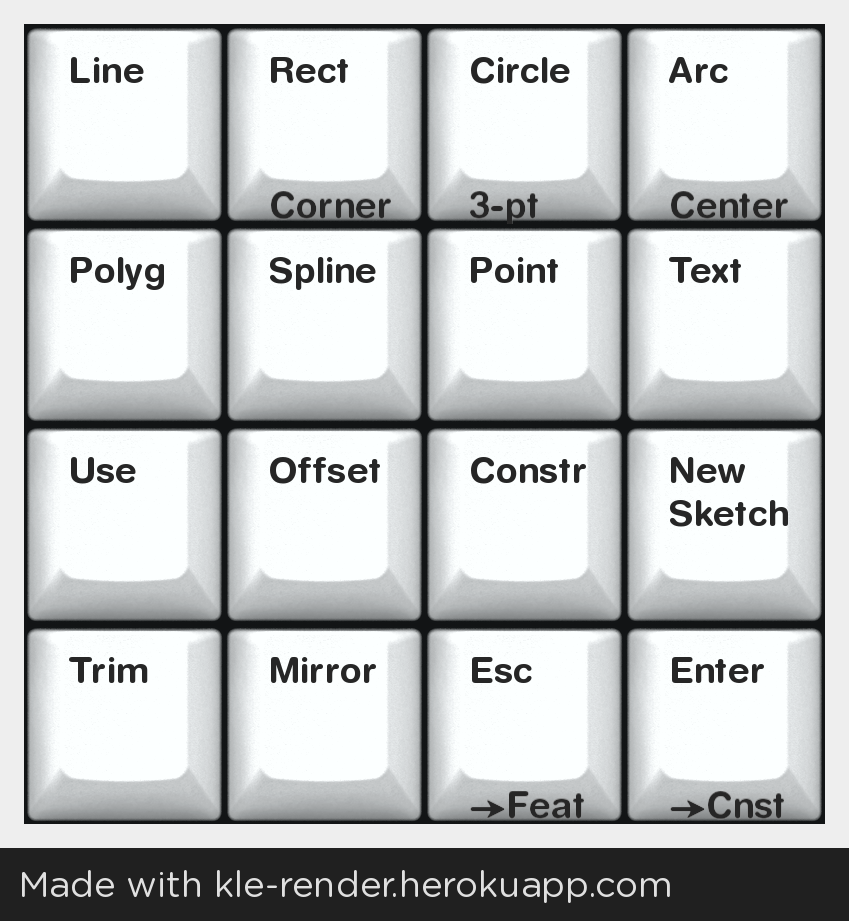
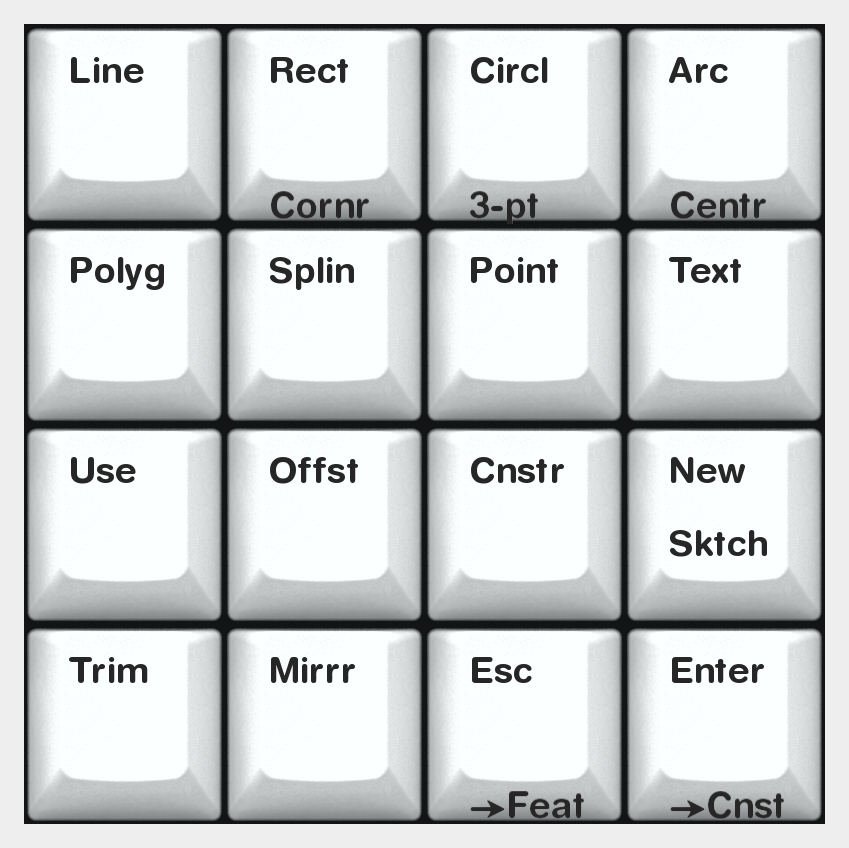
Enforce 5-char key labels, abbreviate layouts, crop KLE renders

diff --git a/misc/render_kle.py b/misc/render_kle.py
@@ -1,4 +1,11 @@
-#!/usr/bin/env python3
+#!/usr/bin/env -S uv run --script
+# /// script
+# requires-python = ">=3.8"
+# dependencies = [
+#   "Pillow",
+#   "requests"
+# ]
+# ///
 """
 Render KLE JSON layout files to PNG images.
 
@@ -6,11 +13,11 @@ When run without arguments, detects which layout files in config/layouts/
 changed in the previous commit and renders those. Also regenerates KEYMAPS.md.
 
 Usage:
-    python render_kle.py              # Render changed layouts, update KEYMAPS.md
-    python render_kle.py --all        # Render all layouts, update KEYMAPS.md
-    python render_kle.py <file.json>  # Render a single file (legacy mode)
+    ./render_kle.py              # Render changed layouts, update KEYMAPS.md
+    ./render_kle.py --all        # Render all layouts, update KEYMAPS.md
+    ./render_kle.py <file.json>  # Render a single file (legacy mode)
 """
-
+import io
 import json
 import re
 import subprocess
@@ -18,11 +25,16 @@ import sys
 from pathlib import Path
 
 import requests
+from PIL import Image
 
 REPO_ROOT = Path(__file__).parent.parent
 LAYOUTS_DIR = REPO_ROOT / "config" / "layouts"
 OUTPUT_DIR = REPO_ROOT / "misc" / "layouts"
 KEYMAPS_FILE = REPO_ROOT / "KEYMAPS.md"
+
+
+TARGET_WIDTH = 849
+TARGET_HEIGHT = 848
 
 
 def render_kle(input_path: Path, output_path: Path) -> Path:
@@ -36,8 +48,12 @@ def render_kle(input_path: Path, output_path: Path) -> Path:
         )
     response.raise_for_status()
 
+    # Crop the image to the target size, keeping the top portion.
+    image = Image.open(io.BytesIO(response.content))
+    cropped = image.crop((0, 0, TARGET_WIDTH, TARGET_HEIGHT))
+
     output_path.parent.mkdir(parents=True, exist_ok=True)
-    output_path.write_bytes(response.content)
+    cropped.save(output_path, "PNG")
     print(f"Rendered {input_path.name} -> {output_path}")
     return output_path
 
@@ -126,7 +142,9 @@ def generate_keymaps_md() -> None:
         if info["png_exists"]:
             lines.append(f"![{info['display_name']}]({info['png_relative']})")
         else:
-            lines.append(f"*Image not yet rendered. Run `python misc/render_kle.py --all` to generate.*")
+            lines.append(
+                f"*Image not yet rendered. Run `python misc/render_kle.py --all` to generate.*"
+            )
         lines.append("")
 
     KEYMAPS_FILE.write_text("\n".join(lines))

diff --git a/AGENTS.md b/AGENTS.md
@@ -33,6 +33,8 @@ Note that you shouldn't avoid assigning shortcuts to key 12 altogether (since it
 
 Keep the KLE JSON layout files in `config/layouts/` in sync with the actual keymap. Each layer should have a corresponding `.json` file named `layer_<number>_<name>.json`. Update these files whenever the keymap changes.
 
+**Key labels must be 5 characters or fewer** to fit properly in the rendered images. Abbreviate longer words by removing vowels (e.g., "Chamfer" → "Chmfr", "Boolean" → "Booln", "Mirror" → "Mirrr").
+
 ## Utilities
 
 - `misc/render_kle.py`: Renders KLE JSON files to PNG images using kle-render.herokuapp.com. Usage: `python3 misc/render_kle.py <input.json> [output.png]`
